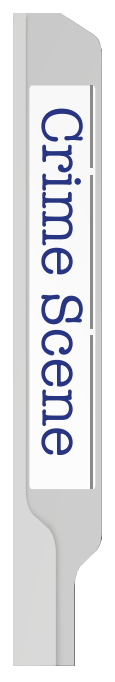
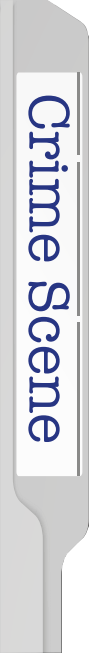
images

diff --git a/Alibi/alibi.css b/Alibi/alibi.css
@@ -413,7 +413,7 @@ div.commune_carte_input_suspect_6 {
     background: grey;
     border: none;
     border-radius: 0px 15px 15px 0px;
-    background: url(https://raw.githubusercontent.com/ctotone/JdR/main/Alibi/images/commune_habillage_1_temp.png);
+    background: url(https://raw.githubusercontent.com/ctotone/JdR/main/Alibi/images/commune_habillage_1.png);
     background-size: 20px 144px;
 }
 
@@ -482,7 +482,7 @@ div.commune_carte_input_suspect_6 {
     height: 492px;
     border: none;
     border-radius: 0px 15px 15px 0px;
-    background: url(https://raw.githubusercontent.com/ctotone/JdR/main/Alibi/images/commune_habillage_2_temp.png);
+    background: url(https://raw.githubusercontent.com/ctotone/JdR/main/Alibi/images/commune_habillage_2.png);
     background-size: 42px 492px;
     margin-left: 146px;
 }
@@ -527,7 +527,7 @@ div.commune_carte_input_suspect_6 {
     background: grey;
     border: none;
     border-radius: 0px 15px 15px 0px;
-    background: url(https://raw.githubusercontent.com/ctotone/JdR/main/Alibi/images/commune_habillage_1_temp.png);
+    background: url(https://raw.githubusercontent.com/ctotone/JdR/main/Alibi/images/commune_habillage_1.png);
     background-size: 20px 144px;
 }
 
@@ -599,7 +599,7 @@ div.commune_carte_input_suspect_6 {
     height: 492px;
     border: none;
     border-radius: 0px 15px 15px 0px;
-    background: url(https://raw.githubusercontent.com/ctotone/JdR/main/Alibi/images/commune_habillage_2_temp.png);
+    background: url(https://raw.githubusercontent.com/ctotone/JdR/main/Alibi/images/commune_habillage_2.png);
     background-size: 42px 492px;
     margin-left: 186px;
 }
